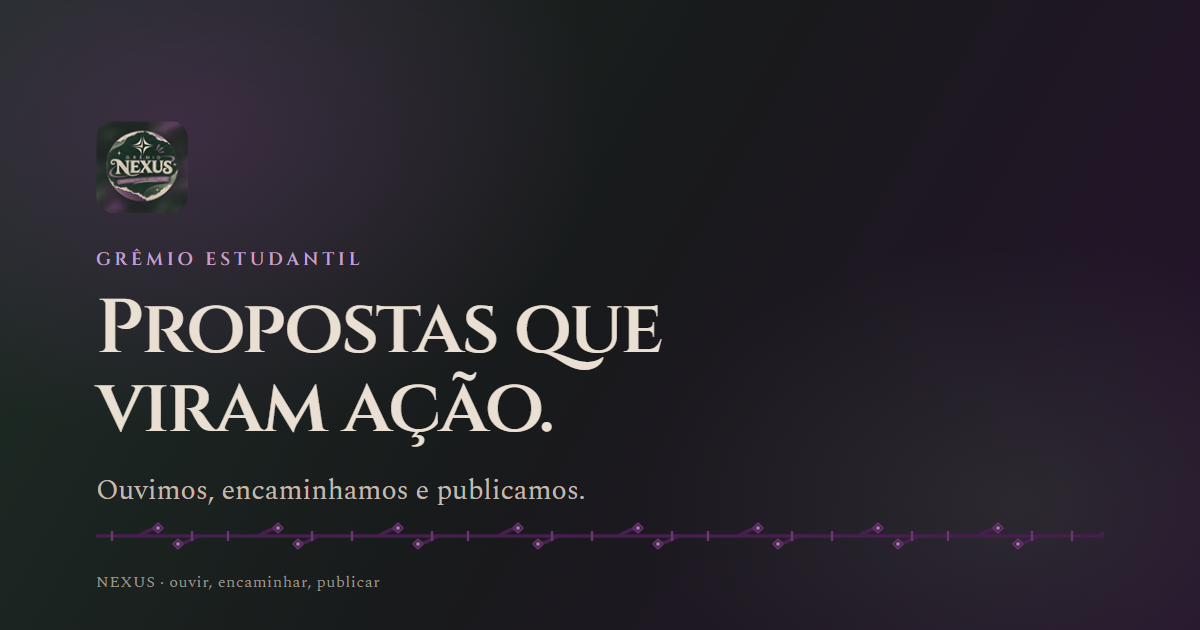
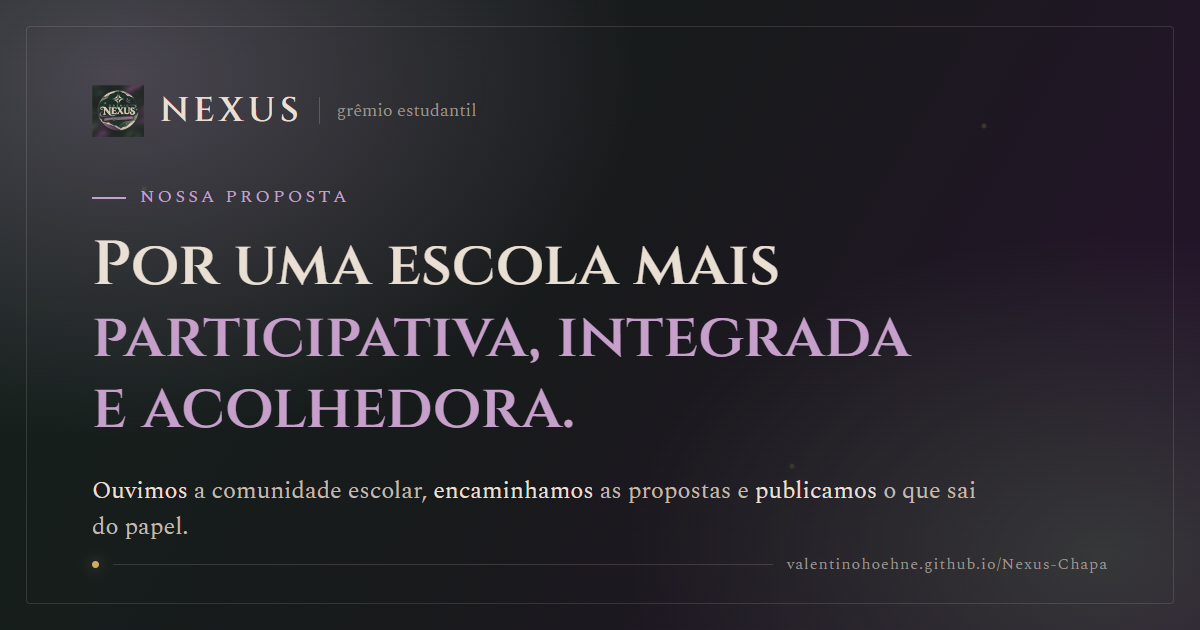
content: atualiza slogan, propostas e preview social

diff --git a/index.html b/index.html
@@ -3,15 +3,15 @@
 <head>
   <meta charset="UTF-8">
   <meta name="viewport" content="width=device-width, initial-scale=1">
-  <meta name="description" content="NEXUS — grêmio estudantil. Ouvimos a comunidade escolar, encaminhamos propostas e publicamos os retornos.">
+  <meta name="description" content="NEXUS — grêmio estudantil. Trabalhamos por uma escola mais participativa, integrada e acolhedora.">
   <meta property="og:type" content="website">
   <meta property="og:url" content="https://valentinohoehne.github.io/Nexus-Chapa/">
   <meta property="og:title" content="NEXUS — Grêmio estudantil">
-  <meta property="og:description" content="Propostas que viram ação. Ouvir, encaminhar, publicar.">
+  <meta property="og:description" content="Por uma escola mais participativa, integrada e acolhedora. Ouvir, encaminhar, publicar.">
   <meta property="og:image" content="https://valentinohoehne.github.io/Nexus-Chapa/assets/nexus-og.png">
   <meta property="og:image:width" content="1200">
   <meta property="og:image:height" content="630">
-  <meta property="og:image:alt" content="NEXUS — Propostas que viram ação">
+  <meta property="og:image:alt" content="NEXUS — Por uma escola mais participativa, integrada e acolhedora">
   <meta name="theme-color" content="#181A1B">
   <title>NEXUS — Grêmio estudantil</title>
   <link rel="icon" href="assets/nexus-mark.png" type="image/png">
@@ -54,7 +54,7 @@
   <main id="conteudo" class="doc shell">
     <div class="doc__masthead" id="inicio">
       <p class="kicker">NEXUS · grêmio estudantil</p>
-      <h1>Propostas que viram ação.</h1>
+      <h1>Por uma escola mais participativa, integrada e acolhedora.</h1>
       <p class="lead">Somos o NEXUS. <strong>Ouvimos</strong> a comunidade escolar, <strong>encaminhamos</strong> as propostas à gestão e <strong>publicamos</strong> o que sai do papel.</p>
       <p class="doc__meta">Reunião aberta · Ouvir, encaminhar, publicar</p>
       <a class="btn btn--primary hero-cta" href="#feedback">Manda sua ideia</a>
@@ -94,31 +94,30 @@
         <p class="section-index">02 <span>/</span></p>
         <h2 id="propostas-title">O que defendemos</h2>
       </div>
-      <p>Três compromissos da chapa, com um jeito claro de acontecer:</p>
-      <!-- Substitua os três itens abaixo pelas propostas oficiais da chapa. -->
+      <p>Três frentes da chapa, com um jeito claro de acontecer:</p>
       <ol class="doc-list">
         <li>
           <span class="doc-list__num">01</span>
           <div>
-            <h3>Escuta aberta</h3>
-            <p>Canal permanente para sugestões, reclamações e ideias de toda a comunidade.</p>
-            <p class="example"><span>Exemplo:</span> uma sugestão enviada pelo Instagram entra na pauta da próxima conversa.</p>
+            <h3>Voz com retorno</h3>
+            <p>Canal permanente para sugestões e ideias, com acompanhamento do andamento e resposta para quem manifestou.</p>
+            <p class="example"><span>Como:</span> a sugestão entra na pauta, recebe resposta e tem o andamento publicado.</p>
           </div>
         </li>
         <li>
           <span class="doc-list__num">02</span>
           <div>
-            <h3>Transparência total</h3>
-            <p>O que foi decidido, por quê e como acompanhar cada andamento.</p>
-            <p class="example"><span>Exemplo:</span> depois de cada decisão, publicamos o encaminhamento e o que ainda falta.</p>
+            <h3>Transparência nas decisões</h3>
+            <p>Mostrar o que foi decidido, por quê e como os recursos são usados, em relatórios acessíveis a todos.</p>
+            <p class="example"><span>Como:</span> decisões que afetam os alunos vêm com motivos e encaminhamento.</p>
           </div>
         </li>
         <li>
           <span class="doc-list__num">03</span>
           <div>
-            <h3>Eventos que integram</h3>
-            <p>Atividades feitas pelos estudantes e para os estudantes.</p>
-            <p class="example"><span>Exemplo:</span> ações abertas a todas as turmas, organizadas por quem estuda aqui.</p>
+            <h3>Esporte que integra</h3>
+            <p>Interclasses e ligas organizadas, quadra aberta aos estudantes e premiação para os vencedores.</p>
+            <p class="example"><span>Como:</span> campeonatos com regulamento claro, abertos a todas as turmas.</p>
           </div>
         </li>
       </ol>

diff --git a/README.md b/README.md
@@ -2,7 +2,7 @@
 
 ![Prévia do NEXUS](assets/nexus-og.png)
 
-> **Propostas que viram ação.** Ouvir, encaminhar, publicar.
+> **Por uma escola mais participativa, integrada e acolhedora.** Ouvir, encaminhar, publicar.
 
 Página estática de apresentação do grêmio estudantil NEXUS. Direta ao ponto, mobile-first e sem cadastro: o foco é deixar claro o que a chapa faz e como a comunidade pode falar com a gente.
 
